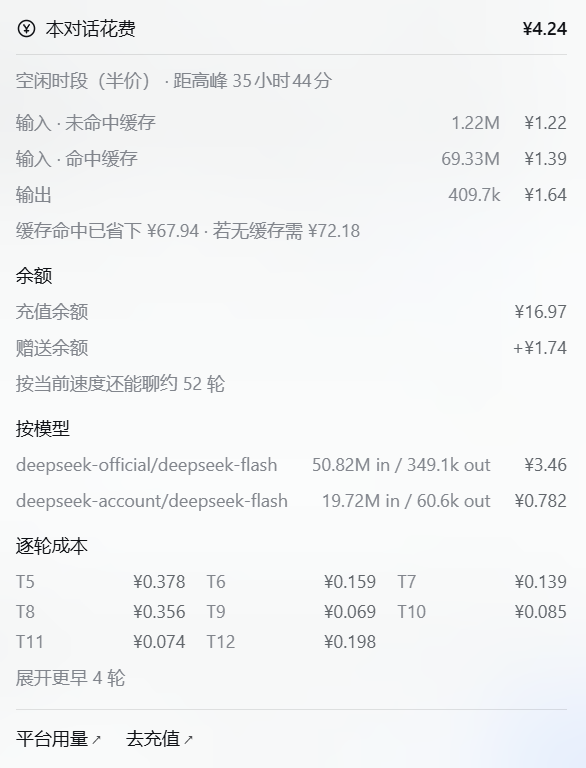
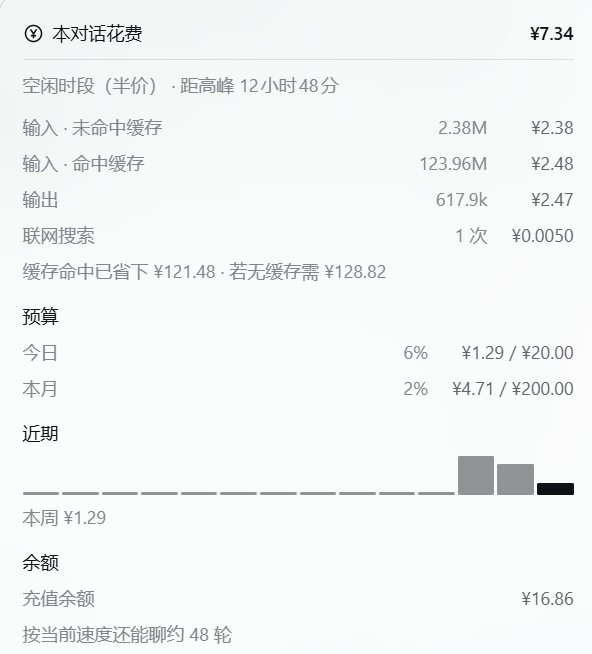
docs: refresh the ledger screenshots for the budget and chart

diff --git a/README.md b/README.md
@@ -8,7 +8,11 @@
 
 点开之后是这笔账：
 
-<img src="docs/panel.png" width="380" alt="账本面板：分项花费、缓存省下、余额、按模型、逐轮成本">
+<img src="docs/panel.png" width="380" alt="账本面板：分项花费、联网搜索、预算、近 14 天趋势、余额">
+
+往下还有按模型的花费、逐轮成本和价目表来源：
+
+<img src="docs/detail.png" width="380" alt="账本下半部分：按模型花费、按模型族近似计价提示、逐轮成本、价目表更新时间">
 
 样式刻意贴合 DSH 自带的两处 UI：药丸照 `StatsPills`（`3 轮 228 步 · 232 tok/s`、`20.9M tok · 缓存命中 96%` 同款裸文字按钮），弹层照 `stat-dialog`（「Token 用量」那张卡片的背景、圆角、阴影、分隔线、右对齐等宽数字）。全部设计令牌取自运行时的 `--dsw-*` / `--dsh-*` 变量，浅色/深色主题自动跟随。
 
@@ -150,7 +154,8 @@
 | `README.md` / `README.en.md` | 中文 / 英文文档 |
 | `CHANGELOG.md` | 版本记录 |
 | `docs/preview.png` | 药丸截图 |
-| `docs/panel.png` | 账本弹层截图 |
+| `docs/panel.png` | 账本弹层截图（上半：分项、预算、趋势、余额） |
+| `docs/detail.png` | 账本弹层截图（下半：按模型、逐轮成本、价目表） |
 | `tests/projection.test.mjs` | Host 半：计价、日桶、预算视图的折叠测试 |
 | `tests/client.test.mjs` | Client 半：按内核加载 bundle，渲染药丸与弹层 |
 | `.github/workflows/test.yml` | 在 Node 22/24 × Linux/Windows 上跑测试 |
